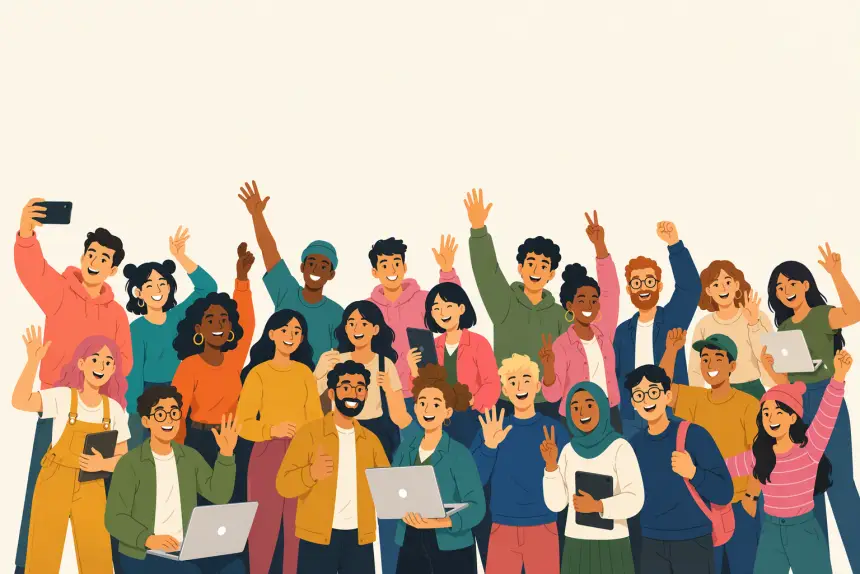
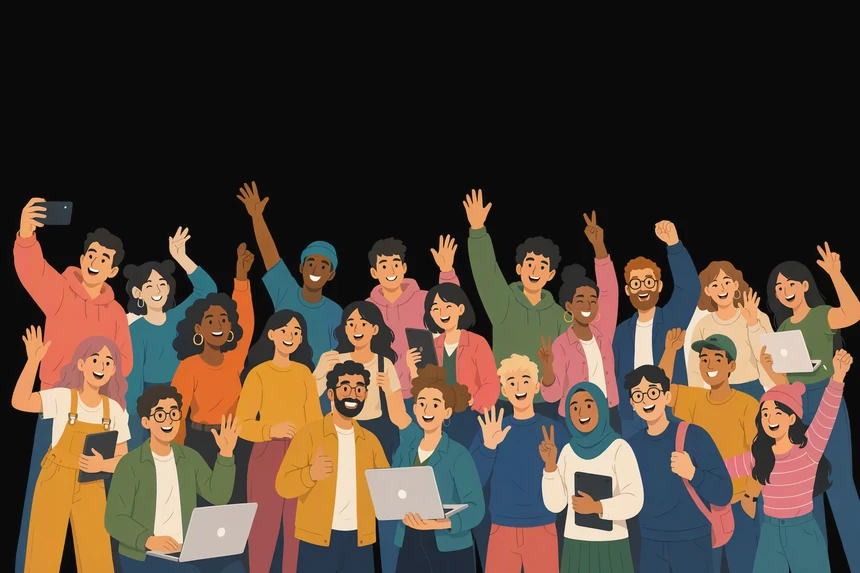
Feat/create community dark illustration (#738)
* feat: dark crowd illustration on the create-community card

The rail's card now closes on the black-background crowd instead of the
cream one, matching the dark CTA above it.

* feat: wear the website's inverse banner colours on the create card

The rail card now sits on the site's #0A0A0A inverse surface with its
#EDEDED heading and light pill CTA, so the dark crowd runs edge to edge
instead of sitting in a cream card. Illustration blacks are level-matched
to the surface and a white/10 hairline keeps the card defined in dark mode.

* feat: carry the inverse banner's top glow onto the create card

Same radial highlight the website's CTA banner uses, sized to the card
(72% of its height, like the banner's 288/400) so it fades out above the
crowd instead of veiling the art.

* feat: colour the create card's crowd on the dark surface

Same crowd as the dark cut, back in colour, with the illustration's
black matched to the #0A0A0A card so it still runs edge to edge.

diff --git a/apps/web/components/home/CreateCommunityCard.tsx b/apps/web/components/home/CreateCommunityCard.tsx
@@ -3,32 +3,36 @@
 import { Plus } from "lucide-react";
 import { openCreateCommunityDialog } from "@/lib/communities/create-community-dialog";
 
-const paper = "#F6F2EA";
-
 /**
  * The rail's create-community card — a crowd illustration doing the talking:
  * one line, one CTA, and the community you could start rising along the
  * bottom edge. Opens the same Create Community dialog the sidebar's "+" does
  * (see lib/communities/create-community-dialog.ts).
+ *
+ * Wears the website's inverse banner colours so the dark illustration runs
+ * edge to edge instead of sitting in a cream card.
  */
 export function CreateCommunityCard() {
   return (
     <section
       aria-labelledby="home-create-community-heading"
-      className="overflow-hidden rounded-xl shadow-sm"
-      style={{ backgroundColor: paper }}
+      className="relative overflow-hidden rounded-xl border border-white/10 bg-overlay shadow-sm"
     >
-      <div className="px-4 pt-5 text-center">
+      <div
+        aria-hidden="true"
+        className="pointer-events-none absolute inset-x-0 top-0 h-44 bg-[radial-gradient(58%_100%_at_50%_0%,rgba(255,255,255,0.12),transparent_72%)]"
+      />
+      <div className="relative px-4 pt-5 text-center">
         <h2
           id="home-create-community-heading"
-          className="mb-3 font-display text-[15px] font-semibold leading-snug text-stone-900"
+          className="mb-3 font-display text-[15px] font-semibold leading-snug text-overlay-foreground"
         >
           Start the room you wish existed.
         </h2>
         <button
           type="button"
           onClick={openCreateCommunityDialog}
-          className="mb-4 flex h-9 w-full cursor-pointer items-center justify-center gap-1.5 rounded-full bg-stone-900 font-body text-[13px] font-semibold text-white transition-transform duration-150 ease-out hover:bg-stone-700 active:scale-[0.98] focus-visible:outline-none focus-visible:ring-2 focus-visible:ring-stone-900 focus-visible:ring-offset-2 focus-visible:ring-offset-[#F6F2EA]"
+          className="mb-4 flex h-9 w-full cursor-pointer items-center justify-center gap-1.5 rounded-full bg-overlay-foreground font-body text-[13px] font-semibold text-overlay transition-[background-color,transform] duration-150 ease-out hover:bg-white active:scale-[0.98] focus-visible:outline-none focus-visible:ring-2 focus-visible:ring-overlay-foreground focus-visible:ring-offset-2 focus-visible:ring-offset-overlay"
         >
           <Plus size={15} strokeWidth={2.5} aria-hidden="true" />
           Create Community
